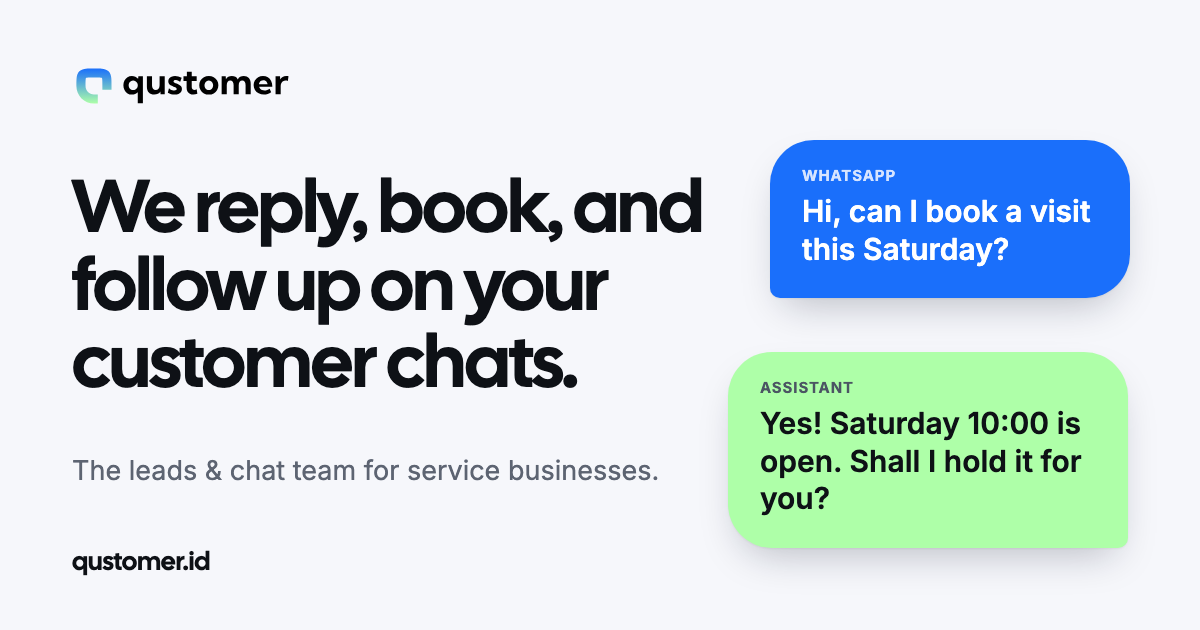
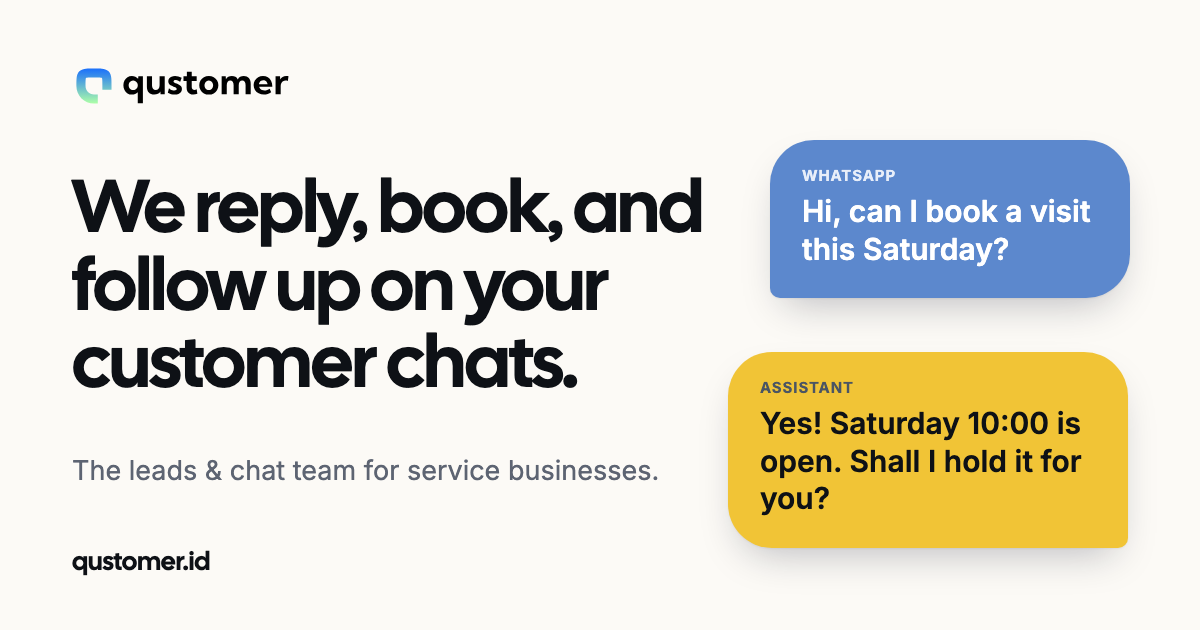
Experiment: cornflower / citron / travertine palette
- brand-500 #5C88CD (+ darker 600/700 for AA), secondary #F1C436 (mint tokens
  now hold the yellow), accent #DDD4C4 (sand tokens, warm surface-alt/line)
- 3D "pale" bubbles use travertine; Cal embed + theme-color follow brand-600/500
- DESIGN.md palette table and og.png updated. Logo/favicon assets unchanged.
- Revert: git switch main

Changed region(s): [[0.5858, 0.5429, 0.9558, 0.8746], [0.6167, 0.2111, 0.9558, 0.4825]]

diff --git a/src/styles/global.css b/src/styles/global.css
@@ -6,22 +6,28 @@
   --font-display: 'Cal Sans', 'Inter Variable', ui-sans-serif, system-ui, sans-serif;
   --font-sans: 'Inter Variable', ui-sans-serif, system-ui, -apple-system, 'Segoe UI', sans-serif;
 
-  /* Brand blue — from the logo (#1A6FFB ≈ brand-500) */
-  --color-brand-50: oklch(0.97 0.02 260);
-  --color-brand-100: oklch(0.93 0.05 260);
-  --color-brand-500: oklch(0.6 0.21 260);
-  --color-brand-600: oklch(0.52 0.22 260);
-  --color-brand-700: oklch(0.45 0.2 260);
+  /* EXPERIMENT palette. Primary: Cornflower String #5C88CD = brand-500. brand-600/700 are darker steps so white text
+     passes AA (brand-600 on white 5.1:1). */
+  --color-brand-50: oklch(0.97 0.02 259);
+  --color-brand-100: oklch(0.93 0.04 259);
+  --color-brand-500: oklch(0.625 0.116 259.1);
+  --color-brand-600: oklch(0.54 0.125 259);
+  --color-brand-700: oklch(0.46 0.12 259);
 
-  /* Brand mint — logo gradient end (#AEFFA8 ≈ mint-300). Fills and highlights only, never text on white. */
-  --color-mint-100: oklch(0.97 0.05 142);
-  --color-mint-300: oklch(0.93 0.14 142);
+  /* Secondary: Mellow Citron #F1C436 (token names kept from the mint palette: "mint" now means the yellow).
+     Fills and highlights only, never text on white. */
+  --color-mint-100: oklch(0.97 0.04 90);
+  --color-mint-300: oklch(0.837 0.156 90);
+
+  /* Accent and decoration: Warm Travertine #DDD4C4 = sand-300. */
+  --color-sand-100: oklch(0.97 0.01 82);
+  --color-sand-300: oklch(0.873 0.024 82.1);
 
   --color-ink: oklch(0.18 0.01 262);        /* primary text */
   --color-ink-muted: oklch(0.48 0.01 262); /* secondary text, >= 4.5:1 on white */
   --color-surface: oklch(1 0 0);
-  --color-surface-alt: oklch(0.975 0.004 262);
-  --color-line: oklch(0.92 0.004 262);
+  --color-surface-alt: oklch(0.975 0.008 82); /* warm travertine tint */
+  --color-line: oklch(0.92 0.012 82);
 
   --radius-card: 1.25rem;
   --shadow-card: 0 1px 2px rgb(0 0 0 / 0.04), 0 8px 24px -8px rgb(0 0 0 / 0.08);

diff --git a/src/scripts/bubbles-scene.ts b/src/scripts/bubbles-scene.ts
@@ -296,7 +296,7 @@ export async function mountScene(canvas: HTMLCanvasElement): Promise<void> {
     blue: { body: tokenColor('--color-brand-500'), ink: surface.getStyle(), tag: tokenColor('--color-brand-100').getStyle() },
     white: { body: surface, ink: inkCss, tag: tokenColor('--color-brand-600').getStyle() },
     mint: { body: tokenColor('--color-mint-300'), ink: inkCss, tag: tokenColor('--color-ink-muted').getStyle() },
-    pale: { body: tokenColor('--color-brand-100'), ink: inkCss, tag: tokenColor('--color-brand-600').getStyle() },
+    pale: { body: tokenColor('--color-sand-300'), ink: inkCss, tag: tokenColor('--color-ink-muted').getStyle() },
   };
   const order = ['white', 'blue', 'pale', 'mint', 'white', 'pale', 'blue', 'white', 'mint', 'pale', 'white', 'blue'] as const;
 

diff --git a/src/config/site.ts b/src/config/site.ts
@@ -13,7 +13,7 @@ export const site = {
   email: 'team@qustomer.id',
   twitter: '@qustomer',
   ogImage: '/og.png', // 1200x630, in /public
-  themeColor: '#1a6ffb', // logo blue
+  themeColor: '#5C88CD', // brand primary (experiment palette)
   defaultLang: 'en' as Lang,
   langStorageKey: 'qustomer-lang',
   /** Google Search Console HTML-tag token. Set PUBLIC_GSC_VERIFICATION in the deploy env. */

diff --git a/DESIGN.md b/DESIGN.md
@@ -11,20 +11,26 @@ Tokens live in `src/styles/global.css` (`@theme`). This file is the spec; CSS is
 4. **Accessible by default** — WCAG 2.2 AA minimum.
 
 ## Color
+**Experiment palette** (branch `experiment/palette-cornflower`; `main` keeps the original logo blue + mint).
+
 | Token | Use | Value |
 |---|---|---|
-| `brand-50` | icon chips, subtle tint | `oklch(0.97 0.02 260)` |
-| `brand-100` | tints, text on brand bg | `oklch(0.93 0.05 260)` |
-| `brand-500` | logo blue, illustrations, 3D bubbles | `oklch(0.6 0.21 260)` ≈ #1a6ffb |
-| `brand-600` | primary buttons, links, eyebrow (white text ≥ 4.5:1) | `oklch(0.52 0.22 260)` |
-| `brand-700` | hover/pressed | `oklch(0.45 0.2 260)` |
-| `mint-100` | soft panel behind the assistant lane | `oklch(0.97 0.05 142)` |
-| `mint-300` | logo gradient end: fills/highlights only, never text on white | `oklch(0.93 0.14 142)` ≈ #aeffa8 |
-| `ink` | headings, body | `oklch(0.2 0.05 262)` |
-| `ink-muted` | secondary text (≥ 4.5:1 on white) | `oklch(0.45 0.03 262)` |
+| `brand-50` | icon chips, subtle tint | `oklch(0.97 0.02 259)` |
+| `brand-100` | tints, text on brand bg | `oklch(0.93 0.04 259)` |
+| `brand-500` | primary **Cornflower String #5C88CD**, illustrations, 3D bubbles | `oklch(0.625 0.116 259.1)` |
+| `brand-600` | primary buttons, links, eyebrow (white text 5.1:1) | `oklch(0.54 0.125 259)` ≈ #416EB4 |
+| `brand-700` | hover/pressed | `oklch(0.46 0.12 259)` ≈ #2B569B |
+| `mint-100` | soft panel behind the assistant lane (yellow tint; name kept from the old palette) | `oklch(0.97 0.04 90)` |
+| `mint-300` | secondary **Mellow Citron #F1C436**: fills and highlights only, never text on white | `oklch(0.837 0.156 90)` |
+| `sand-100` | decoration tint | `oklch(0.97 0.01 82)` |
+| `sand-300` | accent / decoration **Warm Travertine #DDD4C4** (3D "pale" bubbles) | `oklch(0.873 0.024 82.1)` |
+| `ink` | headings, body | `oklch(0.18 0.01 262)` |
+| `ink-muted` | secondary text (≥ 4.5:1 on white) | `oklch(0.48 0.01 262)` |
 | `surface` | page bg | white |
-| `surface-alt` | alternating sections, footer | `oklch(0.98 0.008 260)` |
-| `line` | borders, dividers | `oklch(0.92 0.015 260)` |
+| `surface-alt` | alternating sections, footer (warm travertine tint) | `oklch(0.975 0.008 82)` |
+| `line` | borders, dividers | `oklch(0.92 0.012 82)` |
+
+The logo and favicon still carry the original blue → mint gradient (assets, not tokens).
 
 Status colors: use Tailwind `emerald-600` (success), `amber-600` (warning), `rose-600` (error) only for states, never decoration.
 
